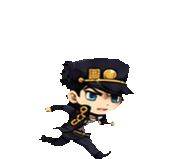
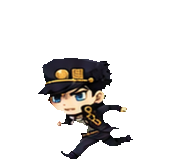
revert(characters): Put Jotaro's and BMO's fall art back as drawn
Mirroring the PNGs bakes one direction into the art. Which way a frame
faces belongs in the manifest, read when the sprite is drawn, and lands
in its own PR.

Changed region(s): [[0.2035, 0.3522, 0.7849, 1.0]]

diff --git a/crates/core/tests/character_packages.rs b/crates/core/tests/character_packages.rs
@@ -570,74 +570,6 @@ fn tuxedo_bean_plays_every_sheet_row_without_a_model() {
     }
 }
 
-/// How far right of the cap's middle Jotaro's gold badge sits, in pixels. The
-/// badge is on the cap's front, so it sits right of middle when he faces right.
-fn jotaro_badge_offset(bytes: &[u8]) -> f32 {
-    let (width, height, rgba) = frame_rgba(bytes);
-    let alpha: Vec<u8> = rgba.iter().map(|p| p[3]).collect();
-    let (top, bottom, _) = silhouette(width, height, &alpha);
-    let cap = top..top + (bottom - top) * 3 / 10;
-    let (mut x_min, mut x_max, mut badge, mut n) = (width, 0, 0.0f32, 0.0f32);
-    for row in cap {
-        for x in 0..width {
-            let [r, g, b, a] = rgba[row * width + x];
-            if a > 128 {
-                (x_min, x_max) = (x_min.min(x), x_max.max(x));
-                if r > 170 && g > 120 && b < 90 {
-                    badge += x as f32;
-                    n += 1.0;
-                }
-            }
-        }
-    }
-    assert!(n > 20.0, "the cap badge shows");
-    badge / n - (x_min + x_max) as f32 / 2.0
-}
-
-/// Art faces right and leftward travel mirrors it. Jump draws `fall`, so a
-/// fall drawn facing left turned every jump the wrong way.
-#[test]
-fn jotaro_falls_facing_the_way_he_walks() {
-    for (animation, frame, bytes) in frames_of("jotaro-kujo") {
-        if animation == "walk" || animation == "fall" {
-            let offset = jotaro_badge_offset(&bytes);
-            assert!(offset > 2.0, "{frame} faces right, badge offset {offset}");
-        }
-    }
-}
-
-/// How far right of BMO's screen its dark side panel sits, in pixels. Facing
-/// right, the lettered side panel shows on the left of the screen.
-fn bmo_panel_offset(bytes: &[u8]) -> f32 {
-    let (width, _, rgba) = frame_rgba(bytes);
-    let centroid = |color: [u8; 3]| {
-        let (mut sum, mut n) = (0.0f32, 0.0f32);
-        for (i, [r, g, b, a]) in rgba.iter().enumerate() {
-            let near = [*r, *g, *b]
-                .iter()
-                .zip(color)
-                .all(|(p, c)| p.abs_diff(c) <= 18);
-            if *a > 128 && near {
-                sum += (i % width) as f32;
-                n += 1.0;
-            }
-        }
-        assert!(n > 200.0, "BMO's {color:?} shows");
-        sum / n
-    };
-    centroid([55, 103, 91]) - centroid([222, 255, 239])
-}
-
-#[test]
-fn bmo_falls_facing_the_way_it_walks() {
-    for (animation, frame, bytes) in frames_of("bmo") {
-        if animation == "walk" || animation == "fall" {
-            let offset = bmo_panel_offset(&bytes);
-            assert!(offset < -5.0, "{frame} faces right, panel offset {offset}");
-        }
-    }
-}
-
 #[test]
 fn rubber_duck_uses_its_drawn_left_walk() {
     let character = load_package("rubber-duck").expect("Rubber Duck package is valid");
